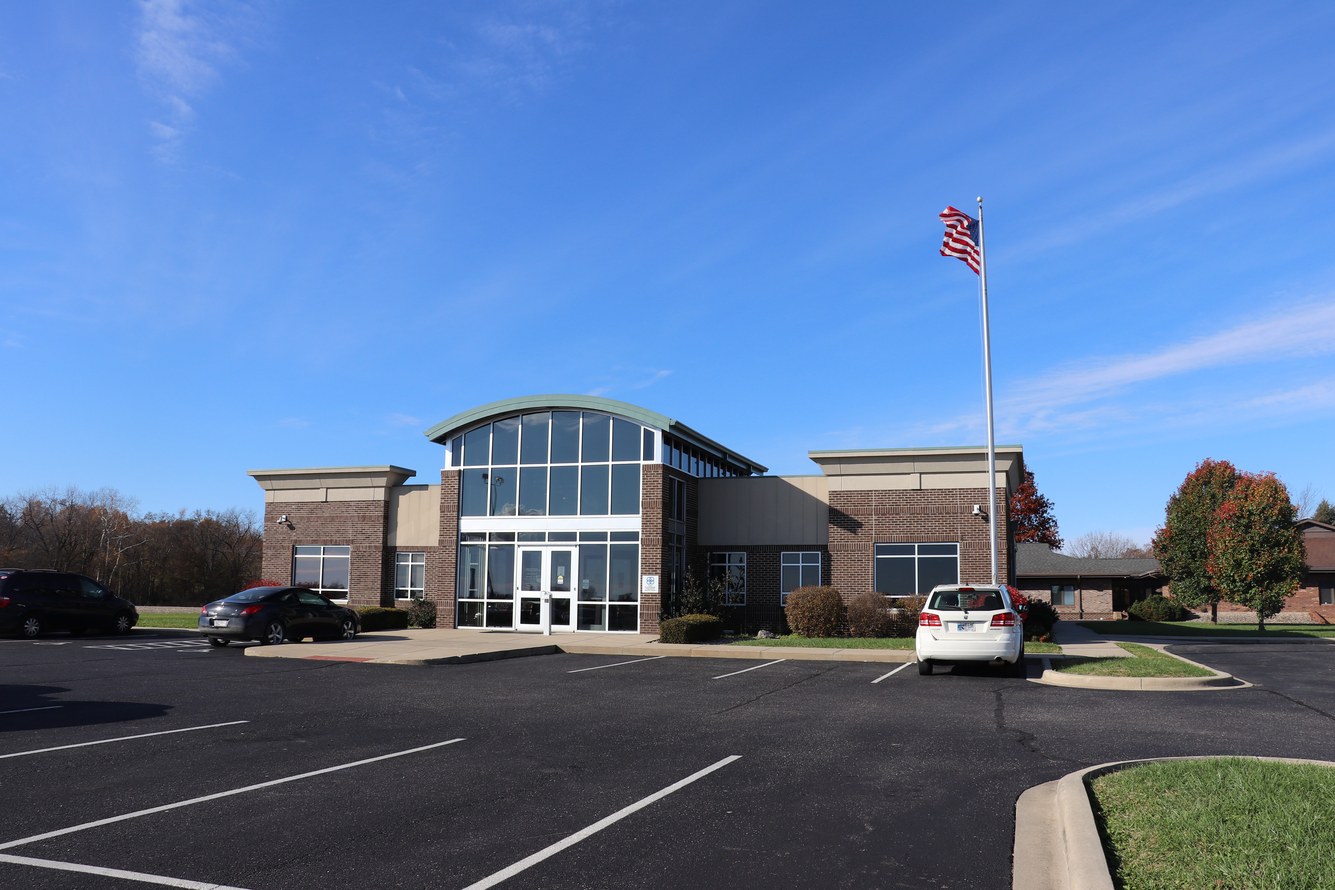
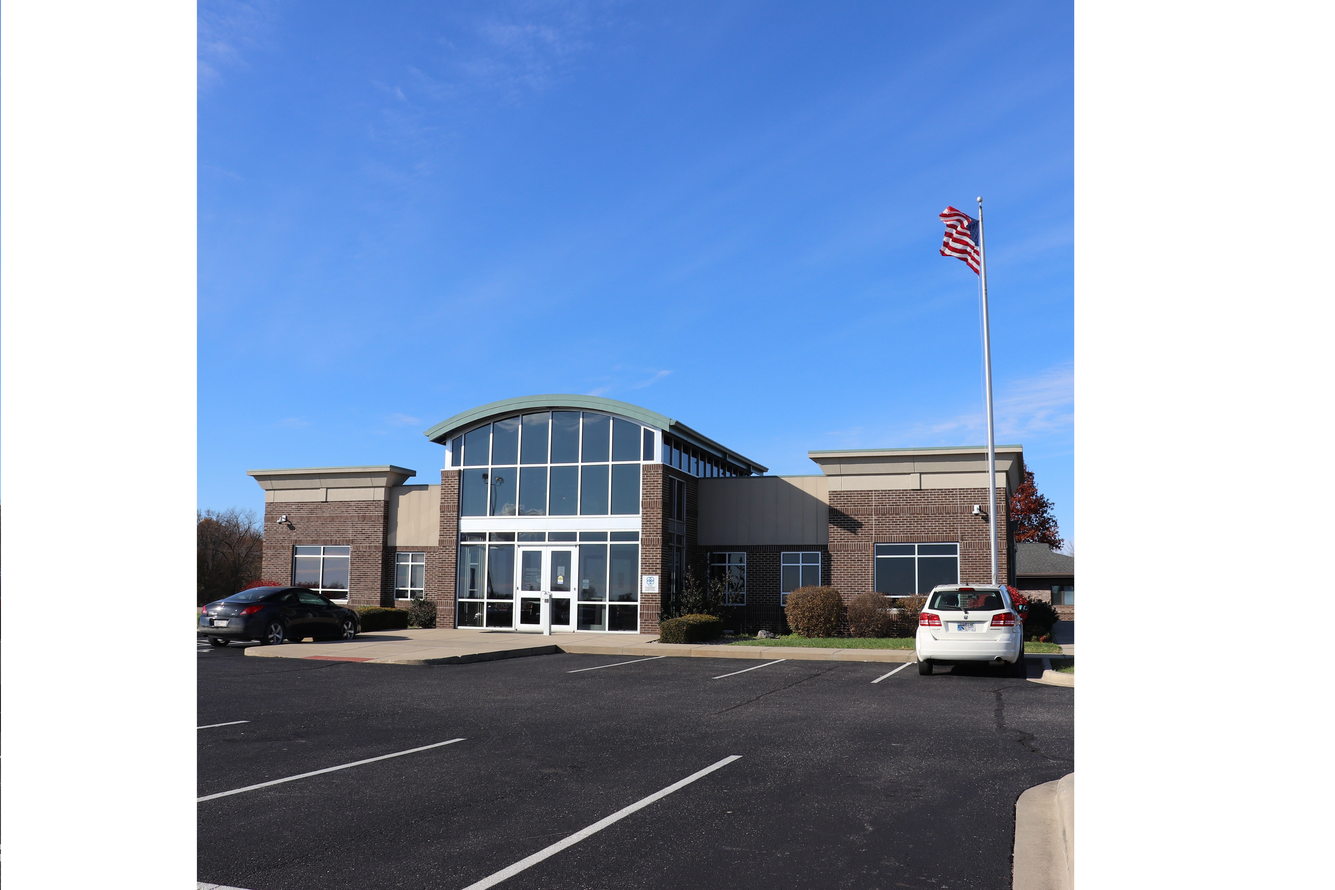
Pictures
-adjusted some of the locations' pictures

diff --git a/clinton/index.php b/clinton/index.php
@@ -52,7 +52,7 @@
 <header><?php include("../php/includes/header.php"); ?></header>
 <main>
 	<div class="banner">
-    <img src="/images/locations/banner_clinton2.jpg">
+    <img src="/images/locations/banner_clinton3.jpg">
     <div class="banner-title">
       <h1>Clinton</h1>
 		</div>
@@ -150,8 +150,8 @@
 			<p class="location-subtitle small">Patient Care Coordinators</p>
 			<table class="team-table">
 				<tr>
-					<td><p>Jill Slaven<span style="float: right; font-size: 14px; padding-top: 2px;">jslaven@vpchc.org&nbsp;</span></p></td>
-					<td><p>Jana Smith<span style="float: right; font-size: 14px; padding-top: 2px;">jsmith@vpchc.org&nbsp;</span></p></td>
+					<td><p>Jill<span style="float: right; font-size: 14px; padding-top: 2px;">jslaven@vpchc.org&nbsp;</span></p></td>
+					<td><p>Jana<span style="float: right; font-size: 14px; padding-top: 2px;">jsmith@vpchc.org&nbsp;</span></p></td>
 				</tr>
 			</table>
 			<br>

diff --git a/rockville/index.php b/rockville/index.php
@@ -52,7 +52,7 @@
 <header><?php include("../php/includes/header.php"); ?></header>
 <main>
 	<div class="banner">
-    <img src="/images/locations/banner_rockville2.jpg">
+    <img src="/images/locations/banner_rockville3.jpg">
     <div class="banner-title">
       <h1>Rockville</h1>
 		</div>
